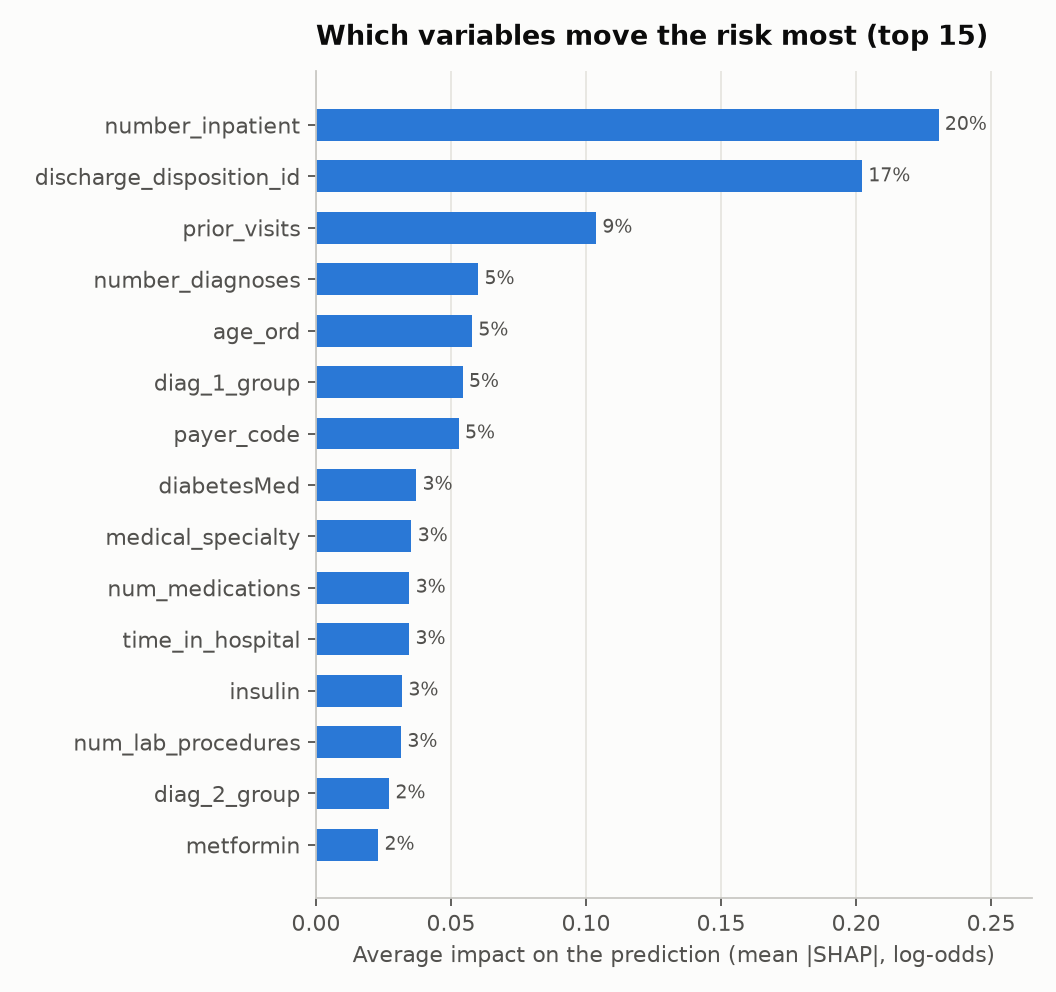
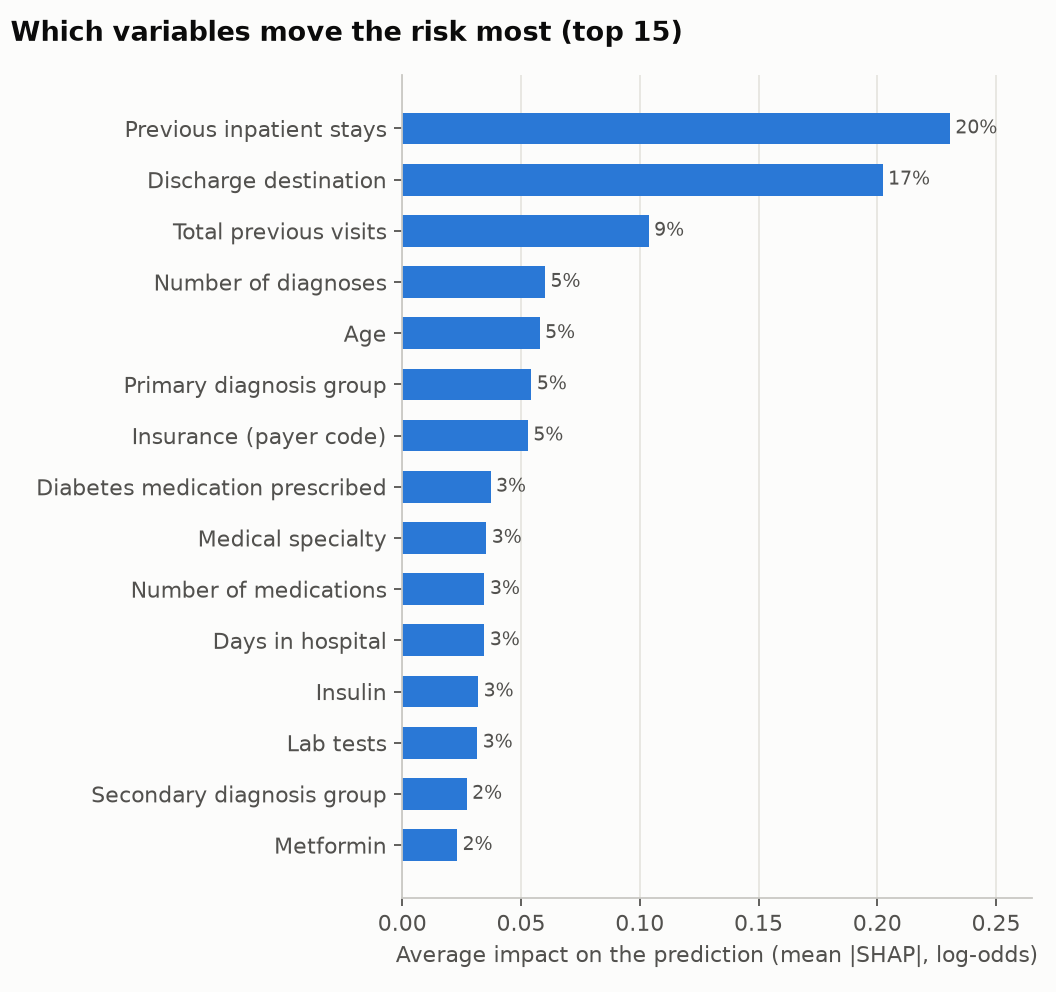
Use readable names in the SHAP figures and move the plot style to its own module

Changed region(s): [[0.0312, 0.0938, 0.9688, 0.9688], [0.0, 0.0, 0.9375, 0.0625], [0.2812, 0.9062, 0.3125, 0.9375]]

diff --git a/src/readmission/explain.py b/src/readmission/explain.py
@@ -30,15 +30,9 @@ from readmission import config
 from readmission.artifact import load_artifact, model_inputs
 from readmission.data import add_binary_target, load_raw
 from readmission.features import prepare
-from readmission.reporting import (
-    _RC,
-    FIGURES_DIR,
-    INK,
-    INK_2,
-    REFERENCE,
-    REPORTS_DIR,
-    SERIES,
-)
+from readmission.labels import value_label, variable_label
+from readmission.plotstyle import INK, INK_2, RC, REFERENCE, SERIES
+from readmission.reporting import FIGURES_DIR, REPORTS_DIR
 from readmission.split import patient_split
 
 DEFAULT_SAMPLE = 5000
@@ -209,7 +203,7 @@ def write_figures(explanation: Explanation, out_dir) -> list:
 
     out_dir.mkdir(parents=True, exist_ok=True)
     paths = []
-    with plt.rc_context(_RC):
+    with plt.rc_context(RC):
         for name, draw in {
             "importance.png": _plot_importance,
             "patients.png": _plot_patients,
@@ -235,10 +229,16 @@ def _plot_importance(explanation: Explanation, plt):
     for pos, value, share in zip(positions, table["mean_abs_shap"], table["share"], strict=True):
         ax.text(value + offset, pos, f"{share:.0%}", va="center", color=INK_2, fontsize=8.5)
     ax.set_yticks(positions)
-    ax.set_yticklabels(table.index)
+    ax.set_yticklabels([variable_label(v) for v in table.index])
     ax.grid(axis="y", visible=False)
     ax.set_xlabel("Average impact on the prediction (mean |SHAP|, log-odds)")
-    ax.set_title(f"Which variables move the risk most (top {len(table)})")
+    fig.suptitle(
+        f"Which variables move the risk most (top {len(table)})",
+        x=0.01,
+        ha="left",
+        fontweight="bold",
+        color=INK,
+    )
     ax.set_xlim(0, table["mean_abs_shap"].max() * 1.15)
     return fig
 
@@ -258,7 +258,7 @@ def _plot_patients(explanation: Explanation, plt):
         ax.barh(positions, table["contribution"], height=0.6, color=colours)
         ax.axvline(0, color=INK_2, linewidth=0.8)
         names = [
-            f"{v} = {val}" if val != "" else str(v)
+            f"{variable_label(v)} = {value_label(v, val)}" if val != "" else variable_label(v)
             for v, val in zip(table["variable"], table["value"], strict=True)
         ]
         ax.set_yticks(positions)
@@ -279,10 +279,11 @@ def _plot_patients(explanation: Explanation, plt):
             f"{label.capitalize()}: {explanation.probability[row]:.0%} predicted risk",
             fontsize=10.5,
         )
-        ax.set_xlabel("Contribution (log-odds; blue raises risk, grey lowers it)")
+        ax.set_xlabel("Contribution (log-odds)")
     average = 1.0 / (1.0 + np.exp(-explanation.base_value))
     fig.suptitle(
-        f"Two example patients (the average patient is at {average:.0%})",
+        f"Two example patients (the average patient is at {average:.0%}); "
+        "blue raises the risk, grey lowers it",
         x=0.01,
         ha="left",
         fontweight="bold",
@@ -303,14 +304,22 @@ def _plot_numeric_effects(explanation: Explanation, plt):
         effect = effect[effect["size"] >= 30]
         if effect.empty:
             ax.text(0.5, 0.5, "too few patients", ha="center", va="center", color=INK_2)
-            ax.set_title(variable, fontsize=10.5)
+            ax.set_title(variable_label(variable), fontsize=10.5)
             continue
         ax.axhline(0, color=REFERENCE, linewidth=1.0)
         ax.plot(
             effect["value"], effect["mean"], color=SERIES, linewidth=1.8, marker="o", markersize=4
         )
-        ax.set_title(variable, fontsize=10.5)
-        ax.set_xlabel("Value")
+        ax.set_title(variable_label(variable), fontsize=10.5)
+        if variable == "age_ord":  # decade index -> readable age groups
+            ax.set_xticks(effect["value"])
+            ax.set_xticklabels(
+                [value_label(variable, v).replace("under ", "<") for v in effect["value"]],
+                fontsize=8.5,
+            )
+            ax.set_xlabel("Age group")
+        else:
+            ax.set_xlabel("Value")
         ax.set_ylabel("Average contribution (log-odds)")
     for ax in axes.ravel()[len(variables) :]:
         ax.set_visible(False)

diff --git a/src/readmission/labels.py b/src/readmission/labels.py
@@ -1,0 +1,85 @@
+"""Human-readable names for the model variables and their coded values, for figures.
+
+The tables in `reports/` keep the dataset's column names so that they can be traced back to the
+data; only the figures use these labels.
+"""
+
+from __future__ import annotations
+
+from readmission import codes, schema
+
+VARIABLES = {
+    "number_inpatient": "Previous inpatient stays",
+    "number_emergency": "Previous emergency visits",
+    "number_outpatient": "Previous outpatient visits",
+    "prior_visits": "Total previous visits",
+    "discharge_disposition_id": "Discharge destination",
+    "admission_type_id": "Admission type",
+    "admission_source_id": "Admission source",
+    "number_diagnoses": "Number of diagnoses",
+    "age_ord": "Age",
+    "diag_1_group": "Primary diagnosis group",
+    "diag_2_group": "Secondary diagnosis group",
+    "diag_3_group": "Additional diagnosis group",
+    "payer_code": "Insurance (payer code)",
+    "medical_specialty": "Medical specialty",
+    "diabetesMed": "Diabetes medication prescribed",
+    "change": "Medication changed",
+    "num_medications": "Number of medications",
+    "num_lab_procedures": "Lab tests",
+    "num_procedures": "Procedures",
+    "time_in_hospital": "Days in hospital",
+    "A1Cresult": "HbA1c result",
+    "max_glu_serum": "Glucose serum result",
+    "gender": "Gender",
+    "insulin": "Insulin",
+    "metformin": "Metformin",
+    "glimepiride": "Glimepiride",
+    "glyburide": "Glyburide",
+    "glipizide": "Glipizide",
+    "pioglitazone": "Pioglitazone",
+    "rosiglitazone": "Rosiglitazone",
+    "repaglinide": "Repaglinide",
+    "nateglinide": "Nateglinide",
+    "acarbose": "Acarbose",
+    "glyburide-metformin": "Glyburide-metformin",
+}
+
+_CODE_TABLES = {
+    "discharge_disposition_id": codes.DISCHARGE_DISPOSITION,
+    "admission_type_id": codes.ADMISSION_TYPE,
+    "admission_source_id": codes.ADMISSION_SOURCE,
+}
+
+MAX_VALUE_LENGTH = 30
+
+
+def variable_label(variable: str) -> str:
+    """Readable name of a variable; unknown names are returned with spaces for underscores."""
+    return VARIABLES.get(variable, variable.replace("_", " "))
+
+
+def _shorten(text: str) -> str:
+    text = text.replace("Discharged/transferred", "Transferred")
+    return text if len(text) <= MAX_VALUE_LENGTH else text[: MAX_VALUE_LENGTH - 1].rstrip() + "…"
+
+
+def value_label(variable: str, value) -> str:
+    """Readable value of a variable: decoded IDs, ages as decades, whole numbers without '.0'."""
+    if value is None or value == "":
+        return ""
+    if variable == "age_ord":
+        decade = int(value)
+        return (
+            f"under {(schema.MIN_AGE_ORD + 1) * 10}"
+            if decade <= schema.MIN_AGE_ORD
+            else f"{decade * 10}s"
+        )
+    if variable in _CODE_TABLES:
+        try:
+            return _shorten(_CODE_TABLES[variable][int(str(value))])
+        except (KeyError, ValueError):
+            return str(value)
+    if isinstance(value, float) and value.is_integer():
+        return str(int(value))
+    return _shorten(str(value))

diff --git a/src/readmission/reporting.py b/src/readmission/reporting.py
@@ -14,40 +14,10 @@ import numpy as np
 
 from readmission import config
 from readmission.evaluation import F1_THRESHOLD_NAME, EvaluationResult
+from readmission.plotstyle import INK, INK_2, RC, REFERENCE, SERIES, SURFACE
 
 REPORTS_DIR = config.ROOT / "reports"
 FIGURES_DIR = REPORTS_DIR / "figures"  # one subfolder per kind: evaluation/, shap/
-
-SURFACE = "#fcfcfb"
-INK = "#0b0b0b"
-INK_2 = "#52514e"
-SERIES = "#2a78d6"
-REFERENCE = "#a5a49f"
-GRID = "#e6e5e0"
-AXIS = "#c9c8c3"
-
-_RC = {
-    "figure.facecolor": SURFACE,
-    "axes.facecolor": SURFACE,
-    "savefig.facecolor": SURFACE,
-    "axes.edgecolor": AXIS,
-    "axes.labelcolor": INK_2,
-    "axes.grid": True,
-    "grid.color": GRID,
-    "grid.linewidth": 0.8,
-    "grid.linestyle": "-",
-    "axes.axisbelow": True,
-    "axes.spines.top": False,
-    "axes.spines.right": False,
-    "xtick.color": INK_2,
-    "ytick.color": INK_2,
-    "text.color": INK,
-    "font.size": 10,
-    "axes.titlesize": 12,
-    "axes.titleweight": "bold",
-    "axes.titlelocation": "left",
-    "axes.titlepad": 12,
-}
 
 
 def write_tables(result: EvaluationResult, out_dir: Path = REPORTS_DIR) -> list[Path]:
@@ -85,7 +55,7 @@ def write_figures(result: EvaluationResult, out_dir: Path) -> list[Path]:
         "subgroup_auc.png": _plot_subgroups,
     }
     paths = []
-    with plt.rc_context(_RC):
+    with plt.rc_context(RC):
         for name, draw in drawers.items():
             fig = draw(result, plt)
             if fig is None:  # nothing reliable to show

diff --git a/tests/test_labels.py b/tests/test_labels.py
@@ -1,0 +1,36 @@
+import pytest
+
+from readmission.labels import VARIABLES, value_label, variable_label
+
+
+def test_every_model_variable_has_a_readable_label(real_like_artifact):
+    model_variables = real_like_artifact["numeric"] + real_like_artifact["categorical"]
+    assert [v for v in model_variables if v not in VARIABLES] == []
+
+
+def test_unknown_variable_falls_back_to_a_spaced_name():
+    assert variable_label("some_new_column") == "some new column"
+
+
+@pytest.mark.parametrize(
+    ("variable", "value", "expected"),
+    [
+        ("discharge_disposition_id", "1", "Discharged to home"),
+        ("discharge_disposition_id", "Unknown", "Unknown"),
+        ("admission_source_id", "7", "Emergency Room"),
+        ("admission_type_id", 1, "Emergency"),
+        ("age_ord", 7, "70s"),
+        ("age_ord", 2, "under 30"),
+        ("number_inpatient", 3.0, "3"),
+        ("payer_code", "MC", "MC"),
+        ("number_inpatient", "", ""),
+    ],
+)
+def test_value_label(variable, value, expected):
+    assert value_label(variable, value) == expected
+
+
+def test_long_values_are_shortened():
+    text = value_label("discharge_disposition_id", "5")
+    assert len(text) <= 30
+    assert text.endswith("…")

diff --git a/src/readmission/plotstyle.py b/src/readmission/plotstyle.py
@@ -1,0 +1,35 @@
+"""House style of the figures: one series colour, hairline grid, thin marks, ink-coloured text.
+
+Shared by the evaluation figures (`reporting`) and the SHAP figures (`explain`).
+"""
+
+SURFACE = "#fcfcfb"
+INK = "#0b0b0b"
+INK_2 = "#52514e"
+SERIES = "#2a78d6"
+REFERENCE = "#a5a49f"
+GRID = "#e6e5e0"
+AXIS = "#c9c8c3"
+
+RC = {
+    "figure.facecolor": SURFACE,
+    "axes.facecolor": SURFACE,
+    "savefig.facecolor": SURFACE,
+    "axes.edgecolor": AXIS,
+    "axes.labelcolor": INK_2,
+    "axes.grid": True,
+    "grid.color": GRID,
+    "grid.linewidth": 0.8,
+    "grid.linestyle": "-",
+    "axes.axisbelow": True,
+    "axes.spines.top": False,
+    "axes.spines.right": False,
+    "xtick.color": INK_2,
+    "ytick.color": INK_2,
+    "text.color": INK,
+    "font.size": 10,
+    "axes.titlesize": 12,
+    "axes.titleweight": "bold",
+    "axes.titlelocation": "left",
+    "axes.titlepad": 12,
+}
